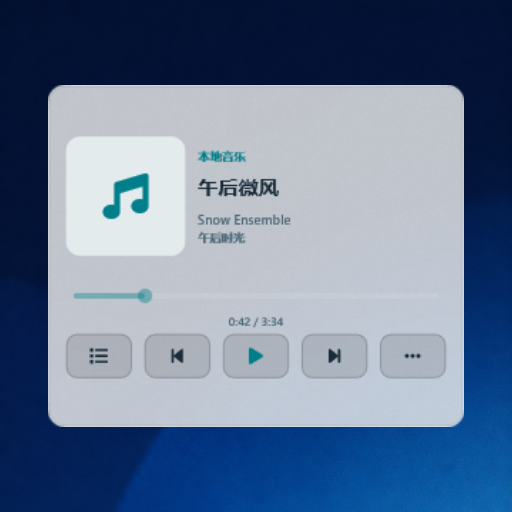
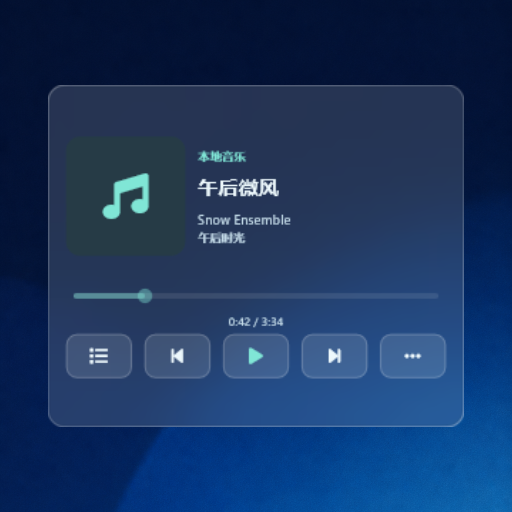
try(widget): 保留循环播放对象并更新组件封面（编译通过，待验证） / Retain looping voices and update the player preview (build passed, validation pending)
中文：
- 循环播放的MediaEnded不再写入终止标记，并保留并发解码失败；原生设置循环失败时恢复标记。
- SMTC短音频集成断言实际跨过周期仍在播放且播放位置回绕；组件封面按真实3x2和标准背景glass-light生成并目检。

English:
- Do not mark a looping voice terminal on MediaEnded, preserve concurrent decoding failures, and restore the loop flag if the native setter fails.
- Assert real continued playback and position wrap across a short SMTC fixture cycle. Render and inspect the preview at its actual 3x2 size on the required glass-light background.

验证 / Validation:
- scripts/build.bat ready-and-wait widget-player-refine-20261021 -Batch 22633cd3e19c4bd48070a51252d58d4f -Revision 0 -ReloadShell: standard Release and audio regression compiled with no compiler/linker warnings; CTest widget_audio_playback1/1 passed,0.99s, configured jobs24. Report .build/Testing/test-run-41572e066a78459e8ad633b51adea84c.xml.
- Player quality passed with zero errors/warnings; actual-manifest 512x512 glass-light preview rendered and inspected.
- 短SMTC夹具已通过跨周期Playing及进度回绕，之后next收到，但停止旧voice失败，完整场景仍待定位。30秒SMTC夹具在前一候选已完整通过。裸后端对同一短文件的seek报告不可用，后续测试将明确记录能力和终止状态，不强制超出实际能力的跳转。
- The short SMTC fixture passed real cross-cycle Playing/position-wrap checks, then received next but failed stopping the old voice; the complete scenario remains under investigation. The30-second fixture passed fully on the previous candidate. The bare backend reports seek unavailable on the same short file; follow-up diagnostics will record capability and terminal state rather than assume seeking is available.
[…]

diff --git a/tests/widget/widget_audio_playback_tests.cpp b/tests/widget/widget_audio_playback_tests.cpp
@@ -313,6 +313,7 @@ void RealSystemMedia(const std::filesystem::path& path)
         auto started = Complete(service, play);
         if (!started.ok) throw std::runtime_error("SMTC fixture starts muted: " + started.state.error);
         bool metadata = false;
+        std::int64_t duration = 0;
         Check(Wait([&] {
             for (const auto& item : service.Drain())
                 if (item.state.status == "playing")
@@ -323,9 +324,26 @@ void RealSystemMedia(const std::filesystem::path& path)
                         item.state.artworkToken.starts_with("@audio:"), "embedded cover decoded to bounded runtime image");
                     Check(item.state.systemMediaControls, "SMTC is enabled only for opted-in playback");
                     metadata = true;
+                    duration = item.state.durationMs;
                 }
             return metadata;
         }), "metadata and cover event");
+        if (duration > 0 && duration <= 2000)
+        {
+            const auto afterCycle = std::chrono::steady_clock::now() + std::chrono::milliseconds(duration + 100);
+            std::int64_t previousPosition = -1;
+            bool wrapped = false, playingBeyondCycle = false;
+            Check(Wait([&] {
+                for (const auto& item : service.Drain()) if (item.playbackId == started.playbackId)
+                {
+                    Check(item.state.status != "ended" && item.state.status != "error", "looping SMTC voice must not retire at natural end");
+                    wrapped |= previousPosition > duration / 2 && item.state.positionMs < previousPosition;
+                    previousPosition = item.state.positionMs;
+                    playingBeyondCycle |= wrapped && item.state.status == "playing" && std::chrono::steady_clock::now() >= afterCycle;
+                }
+                return playingBeyondCycle;
+            }), "looping SMTC voice stays playing with actual position wrap beyond one cycle");
+        }
         using namespace winrt::Windows::Media::Control;
         const auto manager = GlobalSystemMediaTransportControlsSessionManager::RequestAsync().get();
         GlobalSystemMediaTransportControlsSession session{nullptr};

diff --git a/src/widget/tasks/widget_audio_playback.cpp b/src/widget/tasks/widget_audio_playback.cpp
@@ -52,7 +52,7 @@ std::string AudioTag(const winrt::hstring& value)
 
 class WindowsAudioPlayer final : public WidgetAudioPlayer
 {
-    struct Terminal { std::atomic<int> value{0}; };
+    struct Terminal { std::atomic<int> value{0}; std::atomic<bool> looping{false}; };
     struct Commands
     {
         std::mutex mutex;
@@ -113,7 +113,15 @@ public:
             player_ = winrt::Windows::Media::Playback::MediaPlayer();
             player_.CommandManager().IsEnabled(false);
             player_.AutoPlay(false);
-            player_.MediaEnded([terminal = terminal_](const auto&, const auto&) { terminal->value = 1; });
+            player_.MediaEnded([terminal = terminal_](const auto&, const auto&) {
+                // Explicit playback items can report each loop boundary. Keep
+                // the voice alive, and never overwrite a concurrent failure.
+                if (!terminal->looping)
+                {
+                    int running = 0;
+                    terminal->value.compare_exchange_strong(running, 1);
+                }
+            });
             player_.MediaFailed([terminal = terminal_](const auto&, const auto&) { terminal->value = 2; });
             // Bind once in Configure. Assigning a raw source first creates an
             // implicit playback item; wrapping that same source again for SMTC
@@ -257,7 +265,10 @@ public:
     void SetLoop(bool value) override { SetPlaybackMode(metadata_.shuffle, value ? "track" : "none"); }
     void SetPlaybackMode(bool shuffle, const std::string& repeatMode) override
     {
-        player_.IsLoopingEnabled(repeatMode == "track");
+        const bool looping = repeatMode == "track";
+        const bool previous = terminal_->looping.exchange(looping);
+        try { player_.IsLoopingEnabled(looping); }
+        catch (...) { terminal_->looping = previous; throw; }
         metadata_.shuffle = shuffle; metadata_.repeatMode = repeatMode;
         if (metadata_.systemMediaControls)
         {
